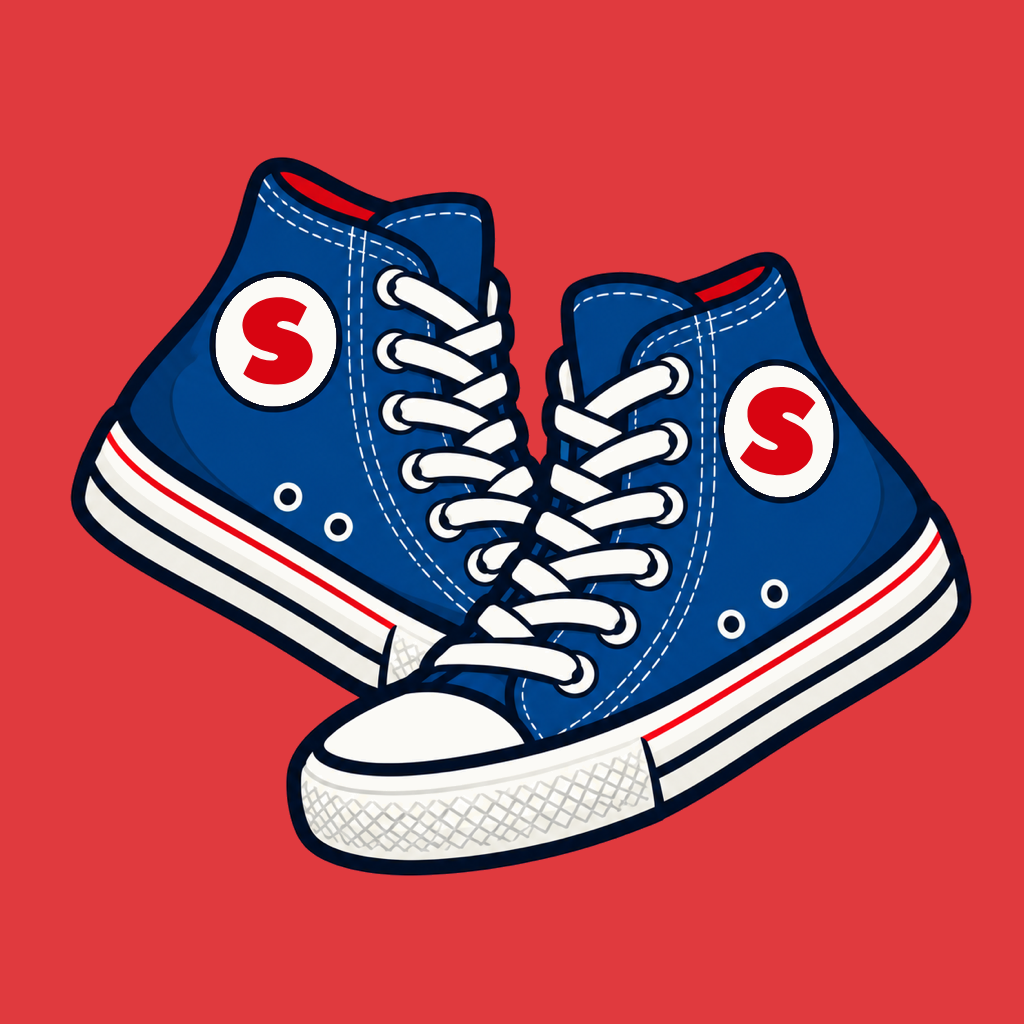
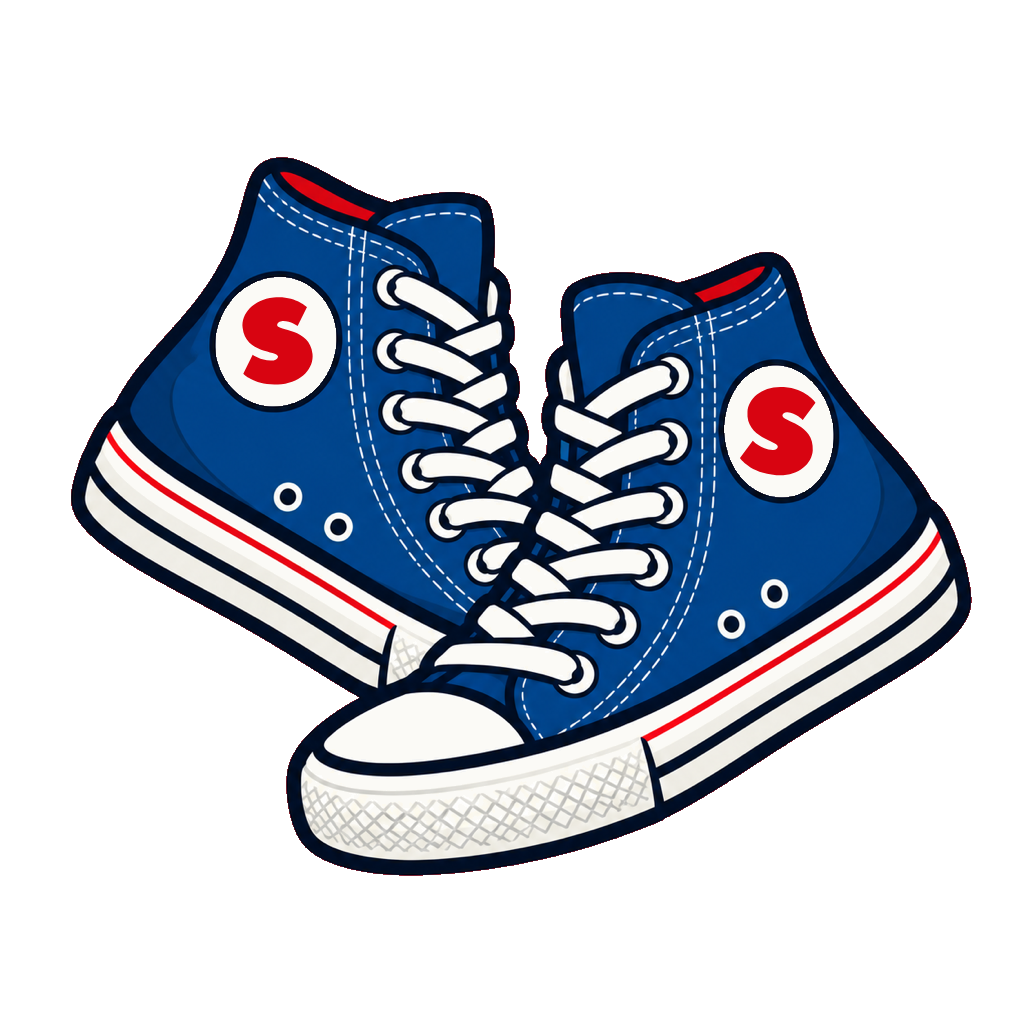
Homepage: a realistic iPhone, "Pay Sam", and the shoes no longer cover the g
The phone is drawn as an iPhone (titanium frame, bezel, Dynamic Island, side
keys, status bar, home indicator, glass reflection) showing the Pay screen:
Pay Sam, with the app's own "Make it free?" button under it. The shoes image
had a solid red background baked in whose rotated corner clipped the g in
"things"; it is now transparent, and the letters sit above the shoes. On
phones the headline breaks into five lines so the shoes fit.

diff --git a/apps/platform/src/app/phone.tsx b/apps/platform/src/app/phone.tsx
@@ -1,102 +1,269 @@
-// A drawing of the app, not a screenshot: the Pay screen with a play-money send, in the same cream-and-navy sticker look as the headline.
+// A drawing of an iPhone showing the app's Pay screen with a play-money send. Every size is in em, and the whole phone scales from one
+// width (15.5rem, less on a narrow screen), so it keeps its proportions. Drawn, not a screenshot; the names and amounts are made up.
 const RED = "#E03A3E";
 const CREAM = "#FFF3D6";
 const NAVY = "#0B1E3F";
+const TITANIUM =
+  "linear-gradient(145deg, #e3e0d8 0%, #9b978e 22%, #cfccc4 48%, #8a867e 74%, #d6d3cb 100%)";
+const SYSTEM =
+  '-apple-system, BlinkMacSystemFont, "SF Pro Display", "SF Pro Text", "Helvetica Neue", Arial, sans-serif';
+
+// The side keys sit on the frame's outer edge: [side, top, height] in em.
+const KEYS: ["left" | "right", number, number][] = [
+  ["left", 6.6, 1.5], // action button
+  ["left", 9.4, 2.7], // volume up
+  ["left", 12.7, 2.7], // volume down
+  ["right", 10, 4.4], // power
+];
+
+function StatusBar() {
+  return (
+    <div
+      className="relative flex items-center justify-between"
+      style={{
+        height: "2.7em",
+        padding: "0.2em 1.55em 0",
+        fontSize: "0.8em",
+        fontWeight: 600,
+        color: NAVY,
+      }}
+    >
+      <span style={{ letterSpacing: "-0.01em" }}>9:41</span>
+      <span className="flex items-center" style={{ gap: "0.3em" }}>
+        <svg width="1.15em" height="0.75em" viewBox="0 0 18 12" fill={NAVY}>
+          <rect x="0" y="8" width="3" height="4" rx="0.8" />
+          <rect x="5" y="5.5" width="3" height="6.5" rx="0.8" />
+          <rect x="10" y="3" width="3" height="9" rx="0.8" />
+          <rect x="15" y="0" width="3" height="12" rx="0.8" />
+        </svg>
+        <svg
+          width="1.05em"
+          height="0.78em"
+          viewBox="0 0 17 12"
+          fill="none"
+          stroke={NAVY}
+          strokeWidth="1.8"
+          strokeLinecap="round"
+        >
+          <path d="M1.2 4.4a10 10 0 0 1 14.6 0" />
+          <path d="M3.8 7.1a6.3 6.3 0 0 1 9.4 0" />
+          <circle cx="8.5" cy="10.2" r="1.1" fill={NAVY} stroke="none" />
+        </svg>
+        <svg width="1.7em" height="0.8em" viewBox="0 0 27 12" fill="none">
+          <rect
+            x="0.6"
+            y="0.6"
+            width="22.8"
+            height="10.8"
+            rx="3.2"
+            stroke={NAVY}
+            strokeOpacity="0.45"
+            strokeWidth="1.2"
+          />
+          <rect
+            x="2.2"
+            y="2.2"
+            width="19.6"
+            height="7.6"
+            rx="1.8"
+            fill={NAVY}
+          />
+          <path d="M25 4v4a2 2 0 0 0 0-4z" fill={NAVY} fillOpacity="0.45" />
+        </svg>
+      </span>
+    </div>
+  );
+}
 
 export function Phone({ className = "" }: { className?: string }) {
   return (
     <div
       aria-hidden="true"
-      className={`sneakers-phone relative mx-auto w-[min(15.5rem,62vw)] select-none ${className}`}
+      className={`sneakers-phone relative mx-auto select-none ${className}`}
       style={{
-        aspectRatio: "9 / 18.5",
-        background: NAVY,
-        borderRadius: "2.4rem",
-        padding: "0.55rem",
-        boxShadow: `0.5rem 0.6rem 0 ${NAVY}66`,
+        fontSize: "calc(min(15.5rem, 62vw) / 15.5)",
+        width: "15.5em",
+        aspectRatio: "9 / 19.5",
         transform: "rotate(6deg)",
+        fontFamily: SYSTEM,
+        filter: "drop-shadow(0 1.4em 1.6em rgba(11, 30, 63, 0.45))",
       }}
     >
+      {KEYS.map(([side, top, height]) => (
+        <span
+          key={`${side}-${top}`}
+          className="absolute"
+          style={{
+            [side]: "-0.16em",
+            top: `${top}em`,
+            width: "0.22em",
+            height: `${height}em`,
+            background: TITANIUM,
+            borderRadius: "0.1em",
+          }}
+        />
+      ))}
+      {/* Titanium frame, then the black bezel, then the glass. */}
       <div
-        className="flex h-full flex-col overflow-hidden"
-        style={{ background: CREAM, borderRadius: "1.9rem", color: NAVY }}
+        className="absolute inset-0"
+        style={{
+          background: TITANIUM,
+          borderRadius: "2.9em",
+          padding: "0.32em",
+        }}
       >
         <div
-          className="mx-auto mt-2 h-[0.9rem] w-[34%] rounded-full"
-          style={{ background: NAVY }}
-        />
-        <div className="flex items-center justify-between px-4 pt-3 text-[0.62rem] font-semibold">
-          <span>Pay</span>
-          <span
-            className="rounded-full px-2 py-[0.15rem]"
-            style={{ background: NAVY, color: CREAM }}
-          >
-            Play money
-          </span>
-        </div>
-        <div className="flex items-center gap-2 px-4 pt-4">
-          <span
-            className="flex h-8 w-8 items-center justify-center rounded-full text-sm font-bold"
-            style={{ background: RED, color: CREAM }}
-          >
-            S
-          </span>
-          <span className="text-[0.7rem] font-semibold leading-tight">
-            Sam
-            <span className="block text-[0.58rem] font-normal opacity-70">
-              @sam
-            </span>
-          </span>
-        </div>
-        <div className="px-4 pt-5 text-center">
-          <div className="text-[2.6rem] font-bold leading-none tracking-tight">
-            $12.00
-          </div>
-          <div className="mt-2 text-[0.65rem] opacity-70">Pizza night</div>
-        </div>
-        <div
-          className="mx-4 mt-6 rounded-full py-2 text-center text-[0.78rem] font-bold"
+          className="relative h-full w-full"
           style={{
-            background: RED,
-            color: CREAM,
-            boxShadow: `0.12rem 0.16rem 0 ${NAVY}`,
+            background: "#05070c",
+            borderRadius: "2.6em",
+            padding: "0.36em",
           }}
         >
-          Pay Sam
-        </div>
-        <div
-          className="mx-4 mt-3 rounded-2xl px-3 py-2 text-[0.6rem] leading-snug"
-          style={{ background: `${NAVY}12` }}
-        >
-          <span className="font-semibold">Sam got $12.00</span> · just now
-        </div>
-        <div className="mx-4 mt-5 text-[0.58rem] font-semibold opacity-60">
-          Recent
-        </div>
-        {[
-          ["Jo", "Rides home", "$8.50"],
-          ["Max", "Rent split", "$310.00"],
-          ["Dee", "Coffee", "$4.25"],
-        ].map(([who, note, amount]) => (
           <div
-            key={who}
-            className="mx-4 mt-2 flex items-center gap-2 text-[0.62rem]"
+            className="relative flex h-full w-full flex-col overflow-hidden"
+            style={{ background: CREAM, borderRadius: "2.25em", color: NAVY }}
           >
+            <StatusBar />
+            {/* The Dynamic Island. */}
             <span
-              className="flex h-6 w-6 items-center justify-center rounded-full text-[0.6rem] font-bold"
-              style={{ background: NAVY, color: CREAM }}
+              className="absolute left-1/2 -translate-x-1/2"
+              style={{
+                top: "0.62em",
+                width: "5.2em",
+                height: "1.5em",
+                background: "#05070c",
+                borderRadius: "1em",
+              }}
+            />
+
+            <div
+              className="flex items-center justify-between"
+              style={{ padding: "0.5em 1.3em 0", fontSize: "0.8em" }}
             >
-              {who[0]}
-            </span>
-            <span className="flex-1 font-semibold leading-tight">
-              {who}
-              <span className="block text-[0.55rem] font-normal opacity-70">
-                {note}
+              <span style={{ fontSize: "1.4em", lineHeight: 1 }}>‹</span>
+              <span style={{ fontWeight: 700 }}>Pay</span>
+              <span
+                style={{
+                  background: NAVY,
+                  color: CREAM,
+                  borderRadius: "99em",
+                  padding: "0.2em 0.7em",
+                  fontSize: "0.8em",
+                  fontWeight: 700,
+                }}
+              >
+                Play money
               </span>
-            </span>
-            <span className="font-semibold">{amount}</span>
+            </div>
+
+            <div
+              className="flex flex-col items-center"
+              style={{ paddingTop: "1.5em" }}
+            >
+              <span
+                className="flex items-center justify-center font-bold"
+                style={{
+                  width: "3.4em",
+                  height: "3.4em",
+                  borderRadius: "50%",
+                  background: RED,
+                  color: CREAM,
+                  fontSize: "1.15em",
+                  boxShadow: `0.12em 0.16em 0 ${NAVY}`,
+                }}
+              >
+                S
+              </span>
+              <span
+                style={{
+                  marginTop: "0.55em",
+                  fontSize: "0.95em",
+                  fontWeight: 700,
+                }}
+              >
+                Sam
+              </span>
+              <span style={{ fontSize: "0.7em", opacity: 0.6 }}>@sam</span>
+              <span
+                style={{
+                  marginTop: "1em",
+                  fontSize: "3.1em",
+                  fontWeight: 700,
+                  letterSpacing: "-0.03em",
+                  lineHeight: 1,
+                }}
+              >
+                $12.00
+              </span>
+              <span
+                style={{
+                  marginTop: "0.7em",
+                  background: `${NAVY}14`,
+                  borderRadius: "99em",
+                  padding: "0.28em 0.9em",
+                  fontSize: "0.75em",
+                  fontWeight: 600,
+                }}
+              >
+                Pizza night
+              </span>
+            </div>
+
+            <div
+              className="mt-auto flex flex-col items-stretch"
+              style={{ gap: "0.65em", padding: "0 1.1em 1.5em" }}
+            >
+              <span
+                className="text-center"
+                style={{
+                  background: RED,
+                  color: CREAM,
+                  borderRadius: "99em",
+                  padding: "0.85em 0",
+                  fontSize: "1em",
+                  fontWeight: 700,
+                  boxShadow: `0.12em 0.18em 0 ${NAVY}`,
+                }}
+              >
+                Pay Sam
+              </span>
+              <span
+                className="text-center"
+                style={{
+                  border: `0.12em solid ${NAVY}`,
+                  borderRadius: "99em",
+                  padding: "0.6em 0",
+                  fontSize: "0.85em",
+                  fontWeight: 700,
+                }}
+              >
+                Make it free?
+              </span>
+            </div>
+
+            {/* Home indicator. */}
+            <span
+              className="absolute left-1/2 -translate-x-1/2"
+              style={{
+                bottom: "0.5em",
+                width: "5.4em",
+                height: "0.3em",
+                background: NAVY,
+                borderRadius: "99em",
+                opacity: 0.85,
+              }}
+            />
+            {/* A faint glass reflection. */}
+            <span
+              className="pointer-events-none absolute inset-0"
+              style={{
+                background:
+                  "linear-gradient(115deg, rgba(255,255,255,0.28) 0%, rgba(255,255,255,0) 32%)",
+              }}
+            />
           </div>
-        ))}
+        </div>
       </div>
     </div>
   );

diff --git a/apps/platform/src/app/page.tsx b/apps/platform/src/app/page.tsx
@@ -18,7 +18,7 @@ const SIGN_IN_URL = 'https://pay.sneakersterminal.com/'
 const HEADLINE = 'Make paying things back fun'
 const SUBLINE = 'Sneakers is the fun way to pay your friends.'
 // How the line breaks: short lines read as a poster, not a sentence. Four on a phone (so the letters can be bigger), three wider.
-const PHONE_LINES = ['Make', 'paying', 'things', 'back fun']
+const PHONE_LINES = ['Make', 'paying', 'things', 'back', 'fun']
 const WIDE_LINES = ['Make paying', 'things back', 'fun']
 
 export const metadata: Metadata = {
@@ -58,7 +58,7 @@ const MOTION = `
   100% { opacity: 1; transform: rotate(-12deg) }
 }
 .sneakers-line { display: block; opacity: 0; transform-origin: left center; animation: sneakers-stamp 0.5s cubic-bezier(0.2, 0.9, 0.3, 1.2) forwards }
-.sneakers-sticker { opacity: 0; transform: rotate(-12deg); animation: sneakers-land 0.6s cubic-bezier(0.2, 0.9, 0.3, 1.3) 0.95s forwards }
+.sneakers-sticker { position: relative; z-index: 0; pointer-events: none; opacity: 0; transform: rotate(-12deg); animation: sneakers-land 0.6s cubic-bezier(0.2, 0.9, 0.3, 1.3) 0.95s forwards }
 @keyframes sneakers-ripple {
   0% { transform: none }
   6% { transform: translateY(-0.14em) rotate(-5deg) }
@@ -68,7 +68,7 @@ const MOTION = `
 .sneakers-phone { opacity: 0; animation: sneakers-rise 0.7s cubic-bezier(0.2, 0.9, 0.3, 1.1) 1.2s forwards }
 @keyframes sneakers-rise { 0% { opacity: 0; transform: translateY(8%) rotate(10deg) } 100% { opacity: 1; transform: rotate(6deg) } }
 .sneakers-char { display: inline-block; animation: sneakers-ripple 5.5s ease-in-out infinite }
-.sq { display: inline-block; transform-origin: 50% 100%; cursor: pointer }
+.sq { display: inline-block; position: relative; z-index: 1; transform-origin: 50% 100%; cursor: pointer }
 svg [data-sq] { transform-box: fill-box; transform-origin: 50% 100% }
 @media (prefers-reduced-motion: reduce) {
   .sneakers-line, .sneakers-sticker, .sneakers-char, .sneakers-phone { animation: none !important; opacity: 1 !important }
